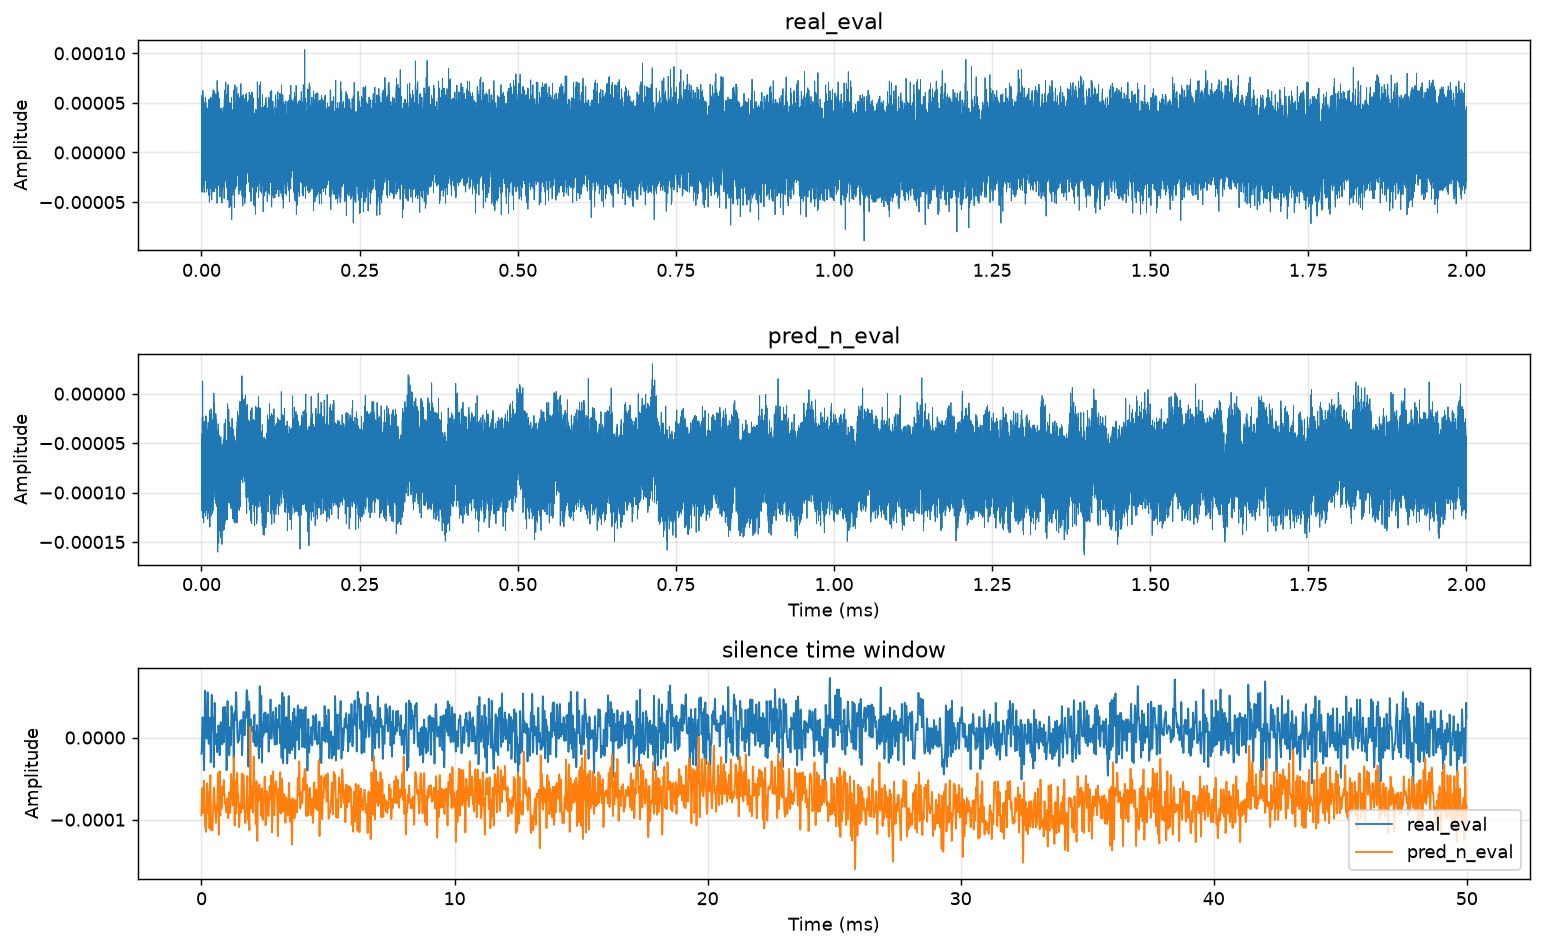
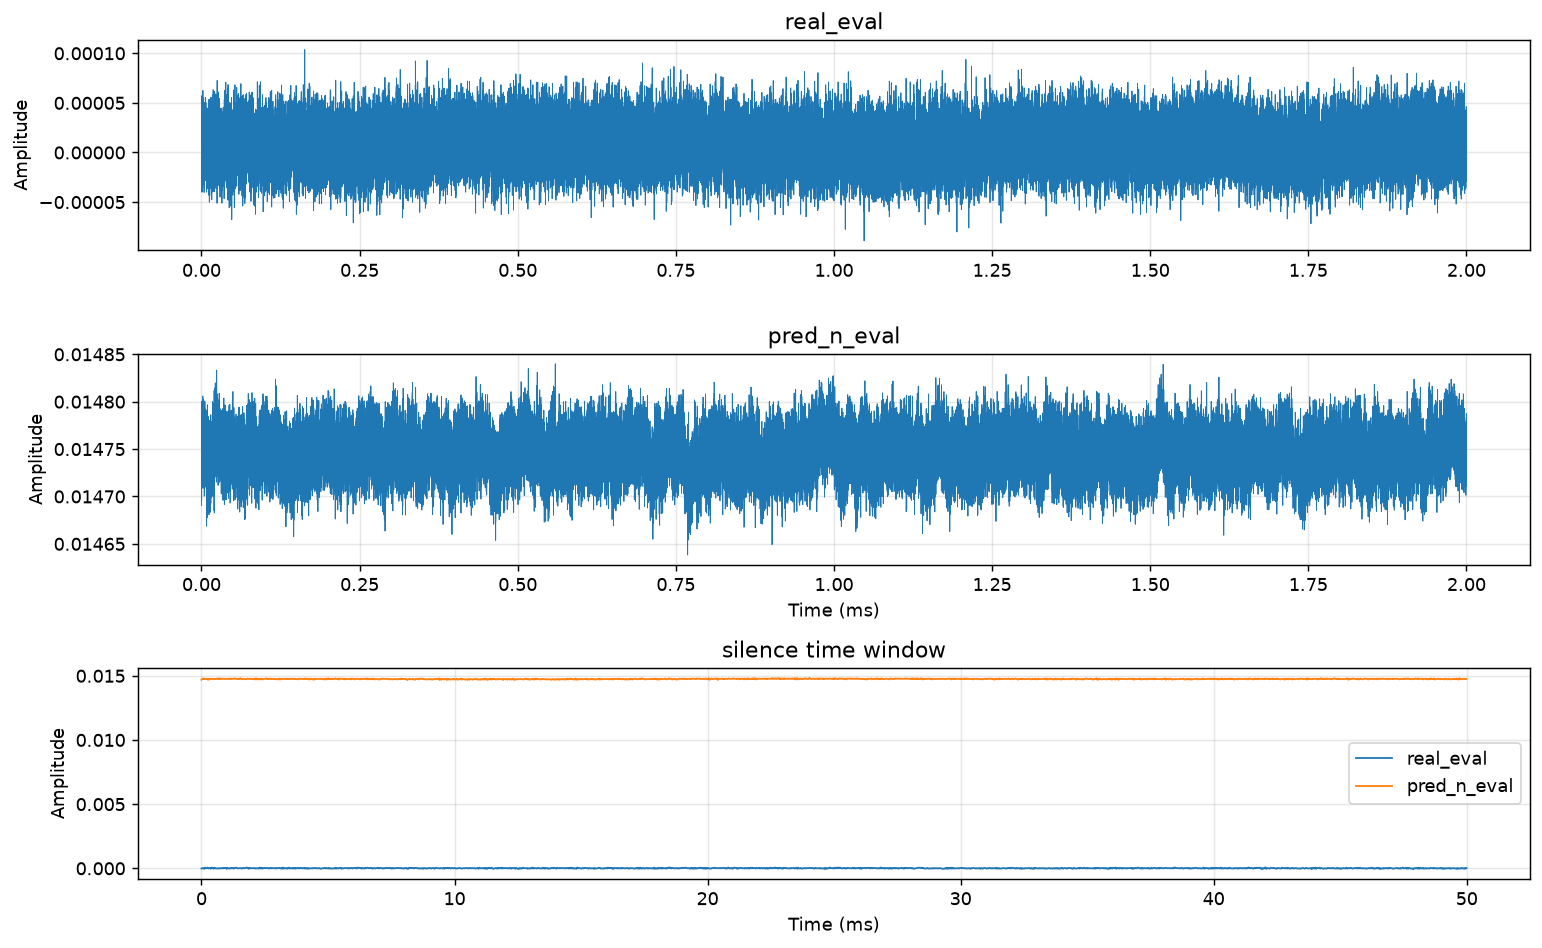
l

diff --git a/black_box/train/train-3.py b/black_box/train/train-3.py
@@ -583,8 +583,8 @@ if __name__ == '__main__':
             'f':{'min':1, 'max':7, 'dtype':torch.float32},
             'v':{'min':1, 'max':7, 'dtype':torch.float32},
         },
-        train_manifest='/home/ubuntu/dsp-modeler/black_box/data/train_single/manifest.jsonl',
-        validation_manifest='/home/ubuntu/dsp-modeler/black_box/data/train_single/manifest.jsonl',
+        train_manifest='/home/ubuntu/dsp-modeler/black_box/data/train/manifest-5.jsonl',
+        validation_manifest='/home/ubuntu/dsp-modeler/black_box/data/train/manifest-5.jsonl',
         dry_file='/home/ubuntu/dsp-modeler/data/input/input.wav',
         device='cuda' if torch.cuda.is_available() else ('mps' if torch.backends.mps.is_available() else 'cpu'),
         model_output_dir = f'/home/ubuntu/dsp-modeler/black_box/model/models',
@@ -593,5 +593,5 @@ if __name__ == '__main__':
         lr_factor = 0.5,
         verbose_time=False,
         verbose_performance = False,
-        hidden_size=60
+        hidden_size=40
     )

diff --git a/black_box/inference/infer.py b/black_box/inference/infer.py
@@ -110,7 +110,7 @@ if __name__ == "__main__":
     infer(
         dry_path='/home/ubuntu/dsp-modeler/data/input/input.wav',
         out_path='/home/ubuntu/dsp-modeler/data/predictions/p.wav',
-        checkpoint = '/home/ubuntu/dsp-modeler/black_box/model/models/2026-08-14_20-46/model_best.pt',
+        checkpoint = '/home/ubuntu/dsp-modeler/black_box/model/models/2026-08-14_23-16/model_best.pt',
         block_seconds=0.1,  # matches the order of magnitude training already ran thousands of forward passes at without incident
         param_configs={
             'd': {'min': 1, 'max': 7, 'dtype': torch.float32},
